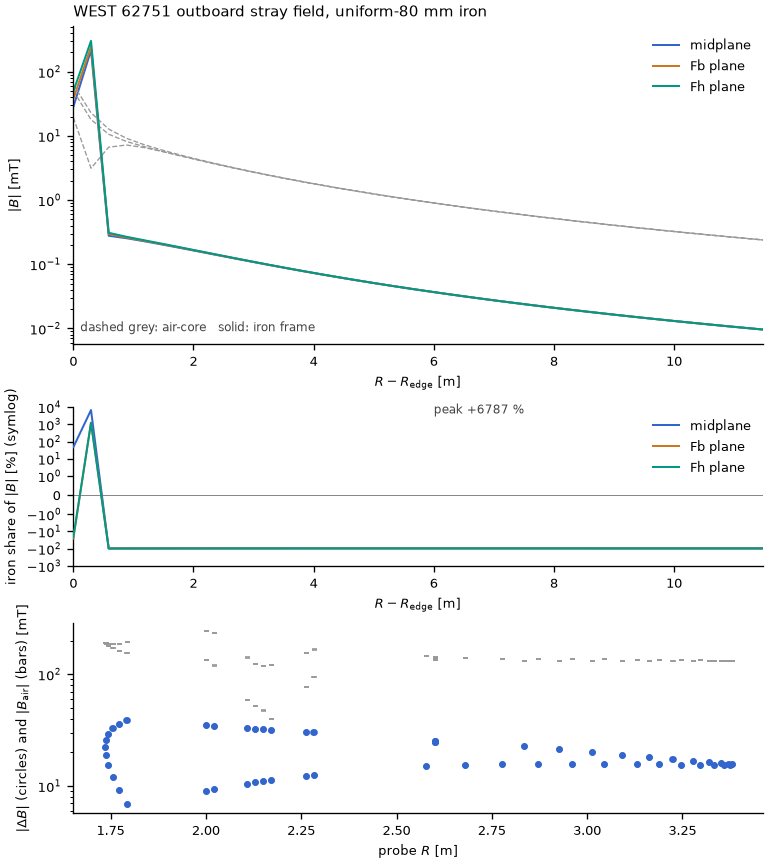
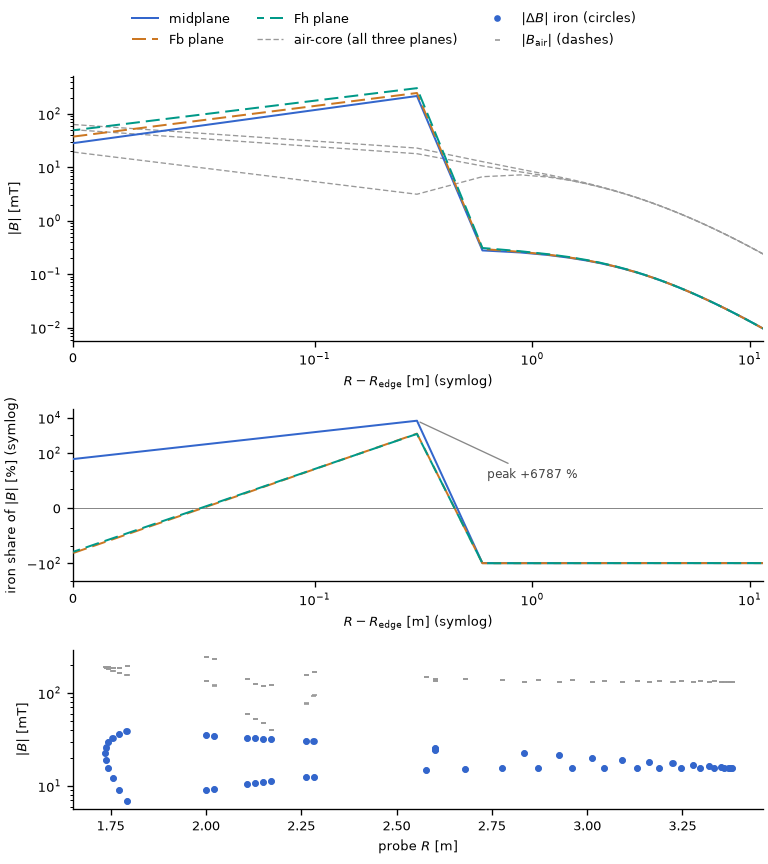
fix(iron-field-source): give the stray-field figure one legend and three readable curves
The figure carried a legend per panel and drew the three iron curves in one style, so the far-field coincidence showed only the last drawn curve and a panel legend sat on the share plateau. It now draws one figure-level legend above the panels, gives each iron curve its own dash pattern at an offset phase, uses a symmetric log horizontal axis so the near-edge structure has real width, and moves the lower panel marker vocabulary into the legend with the air-core marks named as the iron and air-core marks drawn across the three planes. The evidence fragment gains this node record. No measured number changes.

diff --git a/docs/evidence/fragments/iron-core-magnetisation/icm-iron-field-source.html b/docs/evidence/fragments/iron-core-magnetisation/icm-iron-field-source.html
@@ -463,4 +463,27 @@ where the table says so.</p>
 <li><code>.../coil-response/9d2194829695172c.npz</code> (the persisted coil field)</li>
 <li><code>.../linear-magnetisation/west-h200/uniform-0.04.json</code> (the 40 mm H200 solve this node's 80 mm state disagrees with)</li>
 </ul>
+
+<h2 id="icm-iron-field-source-polish">The arm receipts read as JSON, and the figure reads as one</h2>
+<p>Two non-blocking defects in the runner and the figure are closed without
+touching a measured number. The arm runner wrote its <code>commands.json</code>
+through printf formats carrying a doubled backslash, so the file was one line
+of literal <code>\n</code>, which <code>json.load</code> refused. It now writes
+one key per line and <code>json.load</code> reads a freshly written copy. It also
+names each arm's own log: an arm records the path beside itself, so a run split
+into a baseline job and an after job names the log each job wrote rather than
+one derived from the writing job's id. The runner guard additionally asserts the
+target-list assignments are quoted, because an unquoted list reaches pytest
+word-split.</p>
+<p>The stray-field figure now carries one figure-level legend above the panels
+instead of one per panel. The three iron curves take distinct dash patterns at
+offset phases, so a reader sees all three where they coincide in the far field.
+The horizontal axis is symmetric log, which gives the near-edge structure real
+width instead of a sliver. The lower panel's air-core marks are named as the
+dashes they are drawn as, at all three planes, and the marker vocabulary of both
+lower series lives in the legend. A mechanical check over the drawn figure
+reports no text overlapping text or plotted data: 44 text artists, no overlap.</p>
+<p>The gate is the node's own test file at the base revision and at the head,
+<i>9 passed</i> in both arms on the CPU lane, and the figure was rendered on the
+same partition and inspected.</p>
 </main></body></html>

diff --git a/scripts/iron_field_source/figure.py b/scripts/iron_field_source/figure.py
@@ -31,7 +31,7 @@ COLORS = ("#3366cc", "#cc7722", "#009988")
 # The three planes converge in the far field, so each iron curve takes its own
 # dash pattern and a fixed draw order: a reader sees all three where they
 # coincide rather than only the last one drawn.
-IRON_DASHES = ((None, None), (6.0, 1.6), (1.5, 1.4))
+IRON_STYLES = ("-", (0, (7.0, 3.0)), (3.5, (7.0, 3.0)))
 
 
 def draw(axes, data):
@@ -52,7 +52,7 @@ def draw(axes, data):
             air[index] * 1e3,
             color=style.contour_color,
             linewidth=0.8,
-            linestyle=(0, (4.0, 2.0)) if index == 0 else (0, (1.0, 2.0)),
+            linestyle=(0, (4.0, 2.0)),
             zorder=2,
             label="air-core (all three planes)" if index == 0 else "_air",
         )
@@ -63,7 +63,7 @@ def draw(axes, data):
             iron[index] * 1e3,
             color=COLORS[index],
             linewidth=style.trace_linewidth,
-            dashes=IRON_DASHES[index],
+            linestyle=IRON_STYLES[index],
             zorder=4,
             label=name,
         )
@@ -92,21 +92,28 @@ def draw(axes, data):
             share[index],
             color=COLORS[index],
             linewidth=style.trace_linewidth,
-            dashes=IRON_DASHES[index],
+            linestyle=IRON_STYLES[index],
             zorder=3,
         )
     middle.set_yscale("symlog", linthresh=1.0)
     middle.set_xscale("symlog", linthresh=0.1)
     peak = float(np.max(share))
+    # The annotation is tied to the peak by an arrow: a bare label at the panel
+    # edge reads as a caption with no referent.
     middle.annotate(
         f"peak {peak:+.0f} %",
         xy=(float(distance[int(np.argmax(share))]), peak),
-        xytext=(6.0, peak),
+        xytext=(0.60, 0.62),
+        textcoords="axes fraction",
         fontsize=style.label_fontsize - 1,
         color="#444444",
         va="center",
+        arrowprops={"arrowstyle": "-", "color": "#888888", "linewidth": 0.8},
     )
-    middle.set_ylim(-1.0e3, 1.0e4)
+    middle.set_ylim(-1.0e3, 3.0e4)
+    # Eight auto decades in a one-unit-tall panel overlap their labels, so the
+    # ticks are chosen to carry the outlier and the plateau and nothing else.
+    middle.set_yticks([-1.0e2, 0.0, 1.0e2, 1.0e4])
     middle.set_xlim(0, float(distance[-1]))
     middle.set_ylabel("iron share of $|B|$ [%] (symlog)", fontsize=style.label_fontsize)
     middle.set_xlabel(
@@ -126,7 +133,7 @@ def draw(axes, data):
         color=style.contour_color,
         markersize=style.trace_markersize,
     )
-    lower.semilogy(
+    (contribution_handle,) = lower.semilogy(
         probes[:, 0],
         contribution,
         "o",
@@ -134,22 +141,25 @@ def draw(axes, data):
         markersize=style.trace_markersize,
     )
     lower.set_xlabel("probe $R$ [m]", fontsize=style.label_fontsize)
-    lower.set_ylabel(
-        r"$|\Delta B|$ (circles) and $|B_{\mathrm{air}}|$ (dashes) [mT]",
-        fontsize=style.label_fontsize,
-    )
+    lower.set_ylabel(r"$|B|$ [mT]", fontsize=style.label_fontsize)
 
     figure = upper.figure
-    handles = iron_handles + [air_handle]
-    labels = names + ["air-core (all three planes)"]
+    engine = figure.get_layout_engine()
+    if engine is not None:
+        engine.set(h_pad=0.08)
+    handles = iron_handles + [air_handle, contribution_handle, air_marks]
+    labels = names + [
+        "air-core (all three planes)",
+        r"$|\Delta B|$ iron (circles)",
+        r"$|B_{\mathrm{air}}|$ (dashes)",
+    ]
     figure.legend(
         handles,
         labels,
         fontsize=style.label_fontsize,
         frameon=False,
-        loc="lower center",
-        bbox_to_anchor=(0.5, 1.0),
-        ncol=2,
+        loc="outside upper center",
+        ncol=3,
     )
     return style
 
@@ -160,7 +170,7 @@ def main():
     output.parent.mkdir(parents=True, exist_ok=True)
     data = np.load(field)
     figure, axes = plt.subplots(
-        3, 1, figsize=(6.4, 7.2), height_ratios=(2.0, 1.0, 1.2), constrained_layout=True
+        3, 1, figsize=(6.4, 7.2), height_ratios=(2.0, 1.3, 1.2), constrained_layout=True
     )
     draw(axes, data)
     figure.savefig(output, dpi=DEFAULT_INK.figure_dpi)
